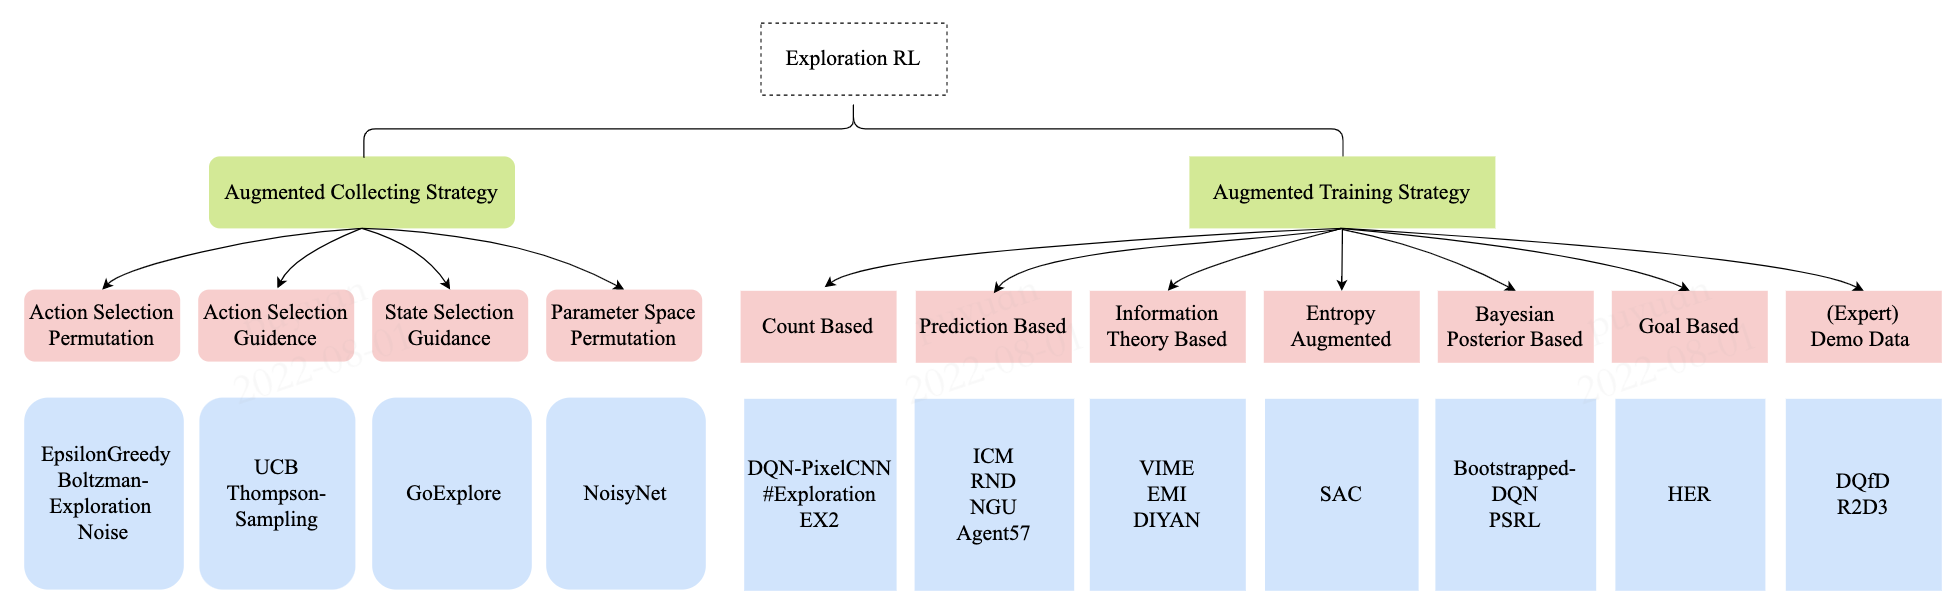
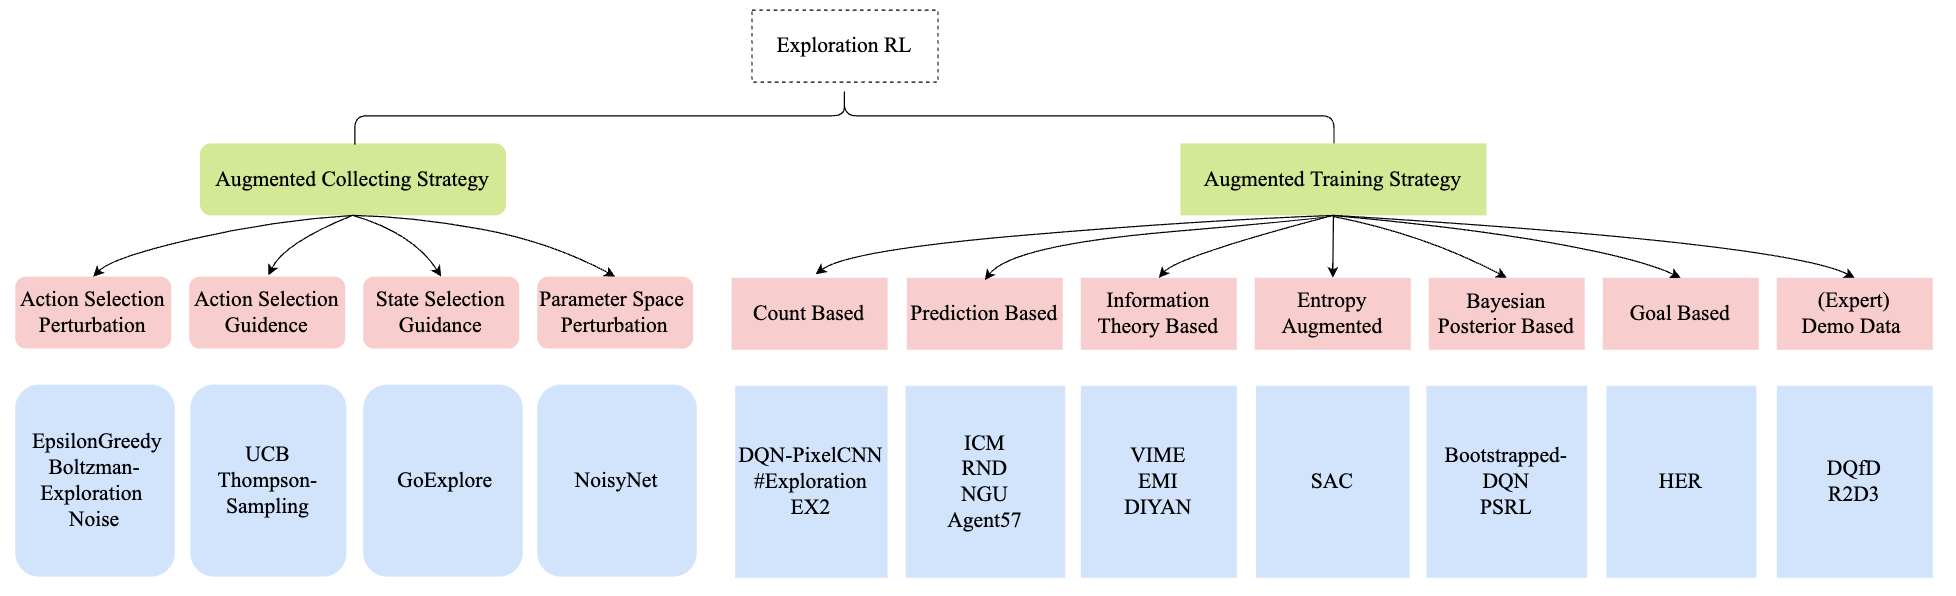
fix(pu): fix typo

diff --git a/README.md b/README.md
@@ -38,10 +38,10 @@ In the *train* phase, the agent uses the collected experience to update the curr
 According to the phase the exploration component is explicitly applied, we simply divide the methods in `Exploration RL` into two main categories: `Augmented Collecting Strategy`, `Augmented Training Strategy`:
 
 - `Augmented Collecting Strategy` represents a variety of different exploration strategies commonly used in the *collect* phase, which we further divide into *four* categories:
-  - `Action Selection Permutation`
+  - `Action Selection Perturbation`
   - `Action Selection Guidance`
   - `State Selection Guidance`
-  - `Parameter Space Permutation`
+  - `Parameter Space Perturbation`
 
 - `Augmented Training Strategy` represents a variety of different exploration strategies commonly used in the *train* phase, which we further divide into *seven* categories:
   - `Count Based`
